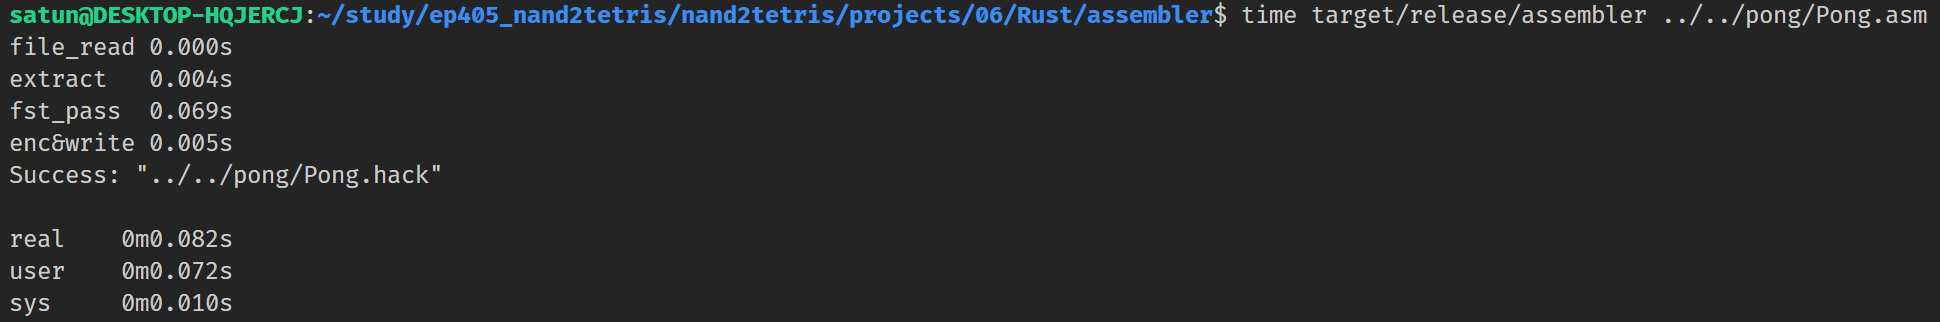
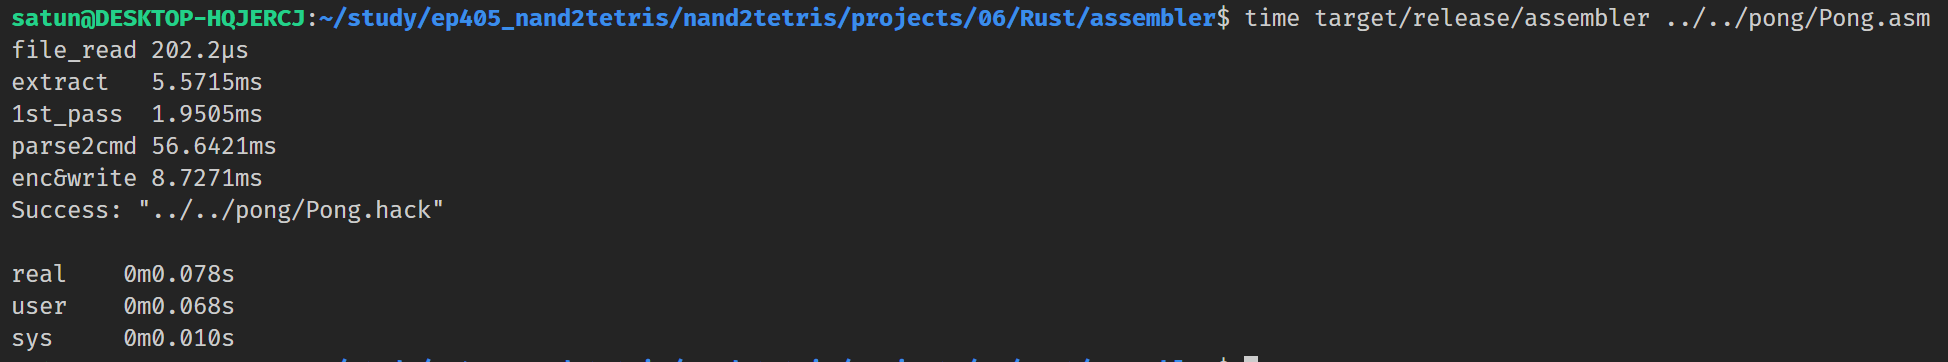
refined project 06 Rust: early 1st pass

diff --git a/nand2tetris/projects/06/Rust/assembler/src/lib.rs b/nand2tetris/projects/06/Rust/assembler/src/lib.rs
@@ -28,8 +28,10 @@ impl Config {
 }
 
 #[derive(Debug, PartialEq)]
+pub struct Label(Symbol);
+
+#[derive(Debug, PartialEq)]
 pub enum Command {
-    L(Symbol),
     V(Symbol),
     A(Addr),
     C { dest: Option<Dest>,
@@ -57,28 +59,41 @@ pub fn run(config: &Config) -> Result<(), Box<dyn Error>> {
 
     let instant = Instant::now();
     let input = fs::read_to_string(&*config.in_file)?;
-    println!("{:<9} {:.3}s", "file_read", instant.elapsed().as_secs_f32());
+    println!("{:<9} {:?}", "file_read", instant.elapsed());
 
     let instant = Instant::now();
-    let input = extract(input);
-    println!("{:<9} {:.3}s", "extract", instant.elapsed().as_secs_f32());
+    let mut lines = extract(input);
+    println!("{:<9} {:?}", "extract", instant.elapsed());
+
+    // 1st pass
+    let instant = Instant::now();
+    let mut labeler = Labeler::new();
+    for line in lines.iter_mut() {
+        labeler.label(line)?;
+    }
+    lines.retain(|l| l.index != 0);
+    println!("{:<9} {:?}", "1st_pass", instant.elapsed());
 
     let instant = Instant::now();
-    let (mut cmds, table) = fst_pass(input)?;
-    println!("{:<9} {:.3}s", "fst_pass", instant.elapsed().as_secs_f32());
+    let mut cmds = Vec::new();
+    for line in lines.iter() {
+        let cmd = line.parse()?;
+        cmds.push(cmd);
+    }
+    println!("{:<9} {:?}", "parse2cmd", instant.elapsed());
 
     let file = fs::File::create(&*config.out_file)?;
     let mut writer = BufWriter::new(file);
+    let mut solver = Solver::new(labeler.table);
 
     let instant = Instant::now();
-    let mut solver = Solver::new(table);
     for cmd in cmds.iter_mut() { 
         solver.solve(cmd);
         writeln!(writer, "{:0>1$b}", cmd.encode(), 16)?;
     }
     writer.flush()?;
     solver.check()?;
-    println!("{:<9} {:.3}s", "enc&write", instant.elapsed().as_secs_f32());
+    println!("{:<9} {:?}", "enc&write", instant.elapsed());
 
     Ok(())
 }
@@ -87,6 +102,20 @@ pub fn run(config: &Config) -> Result<(), Box<dyn Error>> {
 struct Line {
     index: usize,
     body: String,
+}
+
+impl Line {
+    fn parse(&self) -> Result<Command, Box<dyn Error>>{
+        match self.body.parse::<Command>() {
+            Err(e) => {
+                eprint!("in line {}, ", self.index);
+                return Err(e)
+            },
+            Ok(cmd) => {
+                Ok(cmd)
+            },
+        }
+    }
 }
 
 fn extract(mut input: String) -> Vec<Line> {
@@ -117,32 +146,37 @@ impl Addr {
     }
 }
 
-fn fst_pass(input: Vec<Line>) -> Result<(Vec<Command>, SymbolTable), Box<dyn Error>> {
-    let mut table = symbol_table::new();
-    let mut next_rom_addr = Addr(0);
-    let mut cmds = Vec::new();
-    for line in input.iter() {
-        match line.body.parse::<Command>() {
-            Err(e) => {
-                eprint!("in line {}, ", line.index);
-                return Err(e)
-            },
-            Ok(Command::L(sym)) => {
-                if let Some(_) = table.insert(sym.clone(), next_rom_addr.clone()) {
+#[derive(Debug, PartialEq)]
+struct Labeler {
+    table: SymbolTable,
+    next_rom_addr: Addr,
+}
+
+impl Labeler {
+    fn new() -> Self {
+        Self {
+            table: symbol_table::new(),
+            next_rom_addr: Addr(0),
+        }
+    }
+    fn label(&mut self, line: &mut Line) -> Result<(), Box<dyn Error>> {
+        match line.body.parse::<Label>() {
+            Ok(Label(sym)) => {
+                if let Some(_) = self.table.insert(sym.clone(), self.next_rom_addr.clone()) {
                     let Symbol(s) = sym;
                     return Err(format!("Duplicate definition of '{}'", s).into())
                 }
+                line.index = 0;
             },
-            Ok(cmd) => {
-                cmds.push(cmd);
-                next_rom_addr.inc();
-                if let Err(_) = next_rom_addr.check() {
+            Err(_) => {
+                if let Err(_) = self.next_rom_addr.check() {
                     return Err("Program too large".into())
                 }
+                self.next_rom_addr.inc();
             },
         }
+        Ok(())
     }
-    Ok((cmds, table))
 }
 
 #[derive(Debug, PartialEq)]
@@ -160,10 +194,10 @@ impl Solver {
     }
     fn check(&self) -> Result<(), Box<dyn Error>> {
         let Addr(i) = self.next_ram_addr;
-        if  i < 1 << 14 {
-            return Ok(())
+        if  1 << 14 < i {
+            return Err("Too many variables".into())
         }
-        Err("Too many variables".into())
+        Ok(())
     }
     fn solve(&mut self, cmd: &mut Command) {
         if let Command::V(sym) = cmd {
@@ -200,34 +234,38 @@ command // comment
         assert_eq!(trial, expect);
     }
     #[test]
-    fn fst_pass_err_parse() {
-        let trial = fst_pass(vec!
-            [ Line { index: 10, body: "// a comment survived the extraction".to_string() }
-        ]);
-        eprintln!("{:?}", trial);
+    fn line_parse_err() {
+        let line = Line { index: 10, body: "// a comment survived the extraction".to_string() };
+        let trial = line.parse();
         assert!(trial.is_err());
+        eprintln!("{:?}", trial);
     }
     #[test]
     fn fst_pass_err_duplicate_label() {
-        let trial = fst_pass(vec!
-            [ Line { index: 10, body: "(SP)".to_string() }
-        ]);
-        eprintln!("{:?}", trial);
+        let mut labeler = Labeler::new();
+        let mut line = Line { index: 10, body: "(SP)".to_string() };
+        let trial = labeler.label(&mut line);
         assert!(trial.is_err());
+        eprintln!("{:?}", trial);
     }
     #[test]
-    fn fst_pass_err_over_rom_size() {
-        let trial = fst_pass(
-            (0..=0x8000).map(|i| {
-                Line { index: i, body: format!("@{}", i) }
-            }).collect::<Vec<Line>>()
-        );
-        eprintln!("{:?}", trial);
+    fn fst_pass_err_program_too_large() {
+        let mut labeler = Labeler::new();
+        let mut lines = (1..=0x8000).map(|i| {
+                Line { index: i, body: "@0".to_string() }
+            }).collect::<Vec<Line>>();
+        for line in lines.iter_mut() {
+            labeler.label(line).unwrap();
+        }
+        let mut line = Line { index: 0x8001, body: "@0".to_string() };
+        let trial = labeler.label(&mut line);
         assert!(trial.is_err());
+        eprintln!("{:?}", trial);
     }
     #[test]
     fn fst_pass_ok() {
-        let (cmds, table) = fst_pass(vec![
+        let mut labeler = Labeler::new();
+        let mut lines = vec![
             Line { index: 01, body: "@32767"  .to_string() },
             Line { index: 02, body: "D=A"     .to_string() },
             Line { index: 03, body: "(LOOP)"  .to_string() },
@@ -239,10 +277,14 @@ command // comment
             Line { index: 09, body: "(END)"   .to_string() },
             Line { index: 10, body: "@END"    .to_string() },
             Line { index: 11, body: "0;JMP"   .to_string() },
-        ]).unwrap();
-        assert_eq!(cmds.len(), 9);
-        assert_eq!(table.get(&Symbol(String::from("LOOP"))), Some(&Addr(2)));
-        assert_eq!(table.get(&Symbol(String::from("END" ))), Some(&Addr(7)));
+        ];
+        for line in lines.iter_mut() {
+            labeler.label(line).unwrap()
+        }
+        lines.retain(|l| l.index != 0);
+        assert_eq!(lines.len(), 9);
+        assert_eq!(labeler.table.get(&Symbol(String::from("LOOP"))), Some(&Addr(2)));
+        assert_eq!(labeler.table.get(&Symbol(String::from("END" ))), Some(&Addr(7)));
     }
     #[test]
     fn solve_cmd_v() {
@@ -253,8 +295,8 @@ command // comment
         assert_eq!(cmd, expect);
     }
     #[test]
-    fn solve_cmd_l() {
-        let (_, table) = fst_pass(vec![
+    fn solve_label() {
+        let mut lines = vec![
             Line { index: 01, body: "@32767"  .to_string() },
             Line { index: 02, body: "D=A"     .to_string() },
             Line { index: 03, body: "(LOOP)"  .to_string() },
@@ -266,13 +308,32 @@ command // comment
             Line { index: 09, body: "(END)"   .to_string() },
             Line { index: 10, body: "@END"    .to_string() },
             Line { index: 11, body: "0;JMP"   .to_string() },
-        ]).unwrap();
-        let mut solver = Solver::new(table);
+        ];
+        let mut labeler = Labeler::new();
+        for line in lines.iter_mut() {
+            labeler.label(line).unwrap()
+        }
+        let mut solver = Solver::new(labeler.table);
         let mut cmd = Command::V(Symbol("LOOP".to_string()));
         solver.solve(&mut cmd);
         assert_eq!(cmd, Command::A(Addr(2)));
         let mut cmd = Command::V(Symbol("END" .to_string()));
         solver.solve(&mut cmd);
         assert_eq!(cmd, Command::A(Addr(7)));
+    }
+    #[test]
+    fn solve_err_too_many_variables() {
+        let mut solver = Solver::new(symbol_table::new());
+        for i in 0x0010..=0x3FFF {
+            let mut cmd = Command::V(Symbol(format!("var{}", i)));
+            solver.solve(&mut cmd);
+        }
+        let trial = solver.check();
+        assert!(trial.is_ok());
+        let mut cmd = Command::V(Symbol(format!("var{}", 0x4000)));
+        solver.solve(&mut cmd);
+        let trial = solver.check();
+        assert!(trial.is_err());
+        eprintln!("{:?}", trial);
     }
 }

diff --git a/nand2tetris/projects/06/Rust/assembler/src/parser.rs b/nand2tetris/projects/06/Rust/assembler/src/parser.rs
@@ -4,12 +4,21 @@ use combine::error::StreamError;
 use std::str::FromStr;
 use std::error::Error;
 
+use crate::Label;
 use crate::Command;
 use crate::Symbol;
 use crate::Addr;
 use crate::Dest;
 use crate::Comp;
 use crate::Jump;
+
+impl FromStr for Label {
+    type Err = Box<dyn Error>;
+
+    fn from_str(s: &str) -> Result<Self, Self::Err> {
+        Ok(a_label().parse(s)?.0)
+    }
+}
 
 impl FromStr for Command {
     type Err = Box<dyn Error>;
@@ -20,14 +29,23 @@ impl FromStr for Command {
 }
 
 parser! {
+    fn a_label[Input]()(Input) -> Label
+    where [
+        Input: Stream<Token = char>,
+    ]
+    {
+        between(token('('), token(')'), a_symbol()).skip(eof())
+            .map(|x| Label(x))
+    }
+}
+
+parser! {
     fn a_command[Input]()(Input) -> Command
     where [
         Input: Stream<Token = char>,
     ]
     {
         choice((
-            attempt(between(token('('), token(')'), a_symbol()).skip(eof())
-                .map(|x| Command::L(x))),
             attempt(token('@').with(a_symbol()).skip(eof())
                 .map(|x| Command::V(x))),
             attempt(token('@').with(a_addr()).skip(eof())
@@ -59,9 +77,8 @@ parser! {
         Input: Stream<Token = char>,
     ]
     {
-        satisfy(is_head).and(many(satisfy(is_tail))).map(|(h, t): (_, String)| {
-            Symbol(format!("{}{}", h, t))
-        })
+        satisfy(is_head).and(many(satisfy(is_tail)))
+            .map(|(h, t): (_, String)| Symbol(format!("{}{}", h, t)))
     }
 }
 
@@ -237,8 +254,8 @@ mod tests {
     #[test]
     fn addr_over() {
         let trial = a_addr().easy_parse("32768");
-        eprintln!("{:?}", trial);
         assert!(trial.is_err());
+        eprintln!("{:?}", trial);
     }
     #[test]
     fn cmd_a() {
@@ -322,9 +339,9 @@ mod tests {
         assert!(trial.is_ok());
     }
     #[test]
-    fn cmd_l() {
-        let trial = a_command().easy_parse("(LABEL)");
-        let expect = Ok((Command::L(Symbol("LABEL".to_string())), ""));
+    fn label() {
+        let trial = a_label().easy_parse("(LABEL)");
+        let expect = Ok((Label(Symbol("LABEL".to_string())), ""));
         assert_eq!(trial, expect);
     }
     #[test]
